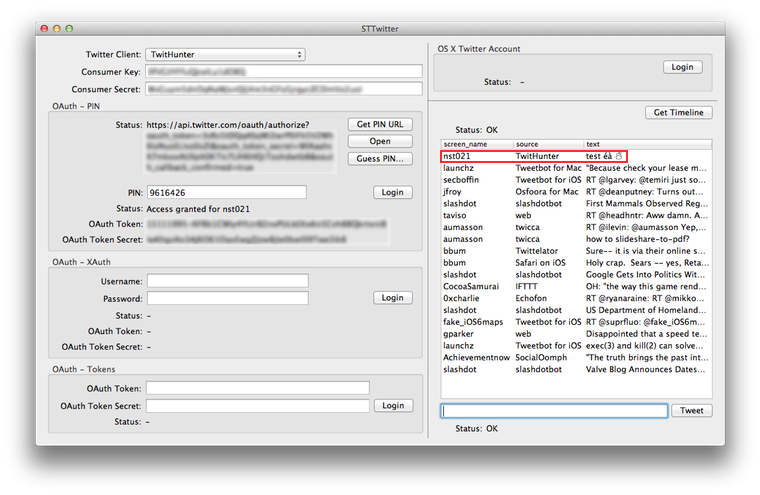
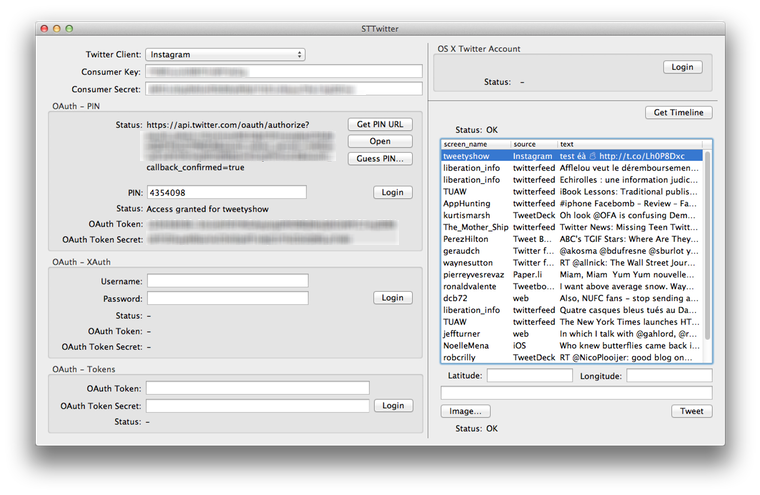
updated screenshots

diff --git a/README.md b/README.md
@@ -36,7 +36,9 @@ STTwitter demo project lets you choose how to get the OAuth tokens (see below).
 
 Once you got the OAuth tokens, you can get your timeline and post a new status.
 
-![SSTTwitter](https://github.com/nst/STTwitter/raw/master/Art/STTwitter.png "STTwitter Demo Project")
+![STTwitter](https://github.com/nst/STTwitter/raw/master/Art/STTwitter.png "STTwitter Demo Project")
+
+![STTweet](https://github.com/nst/STTwitter/raw/master/Art/STTweet.png "STTwitter Demo Tweet")
 
 ### OAuth Connection
 
